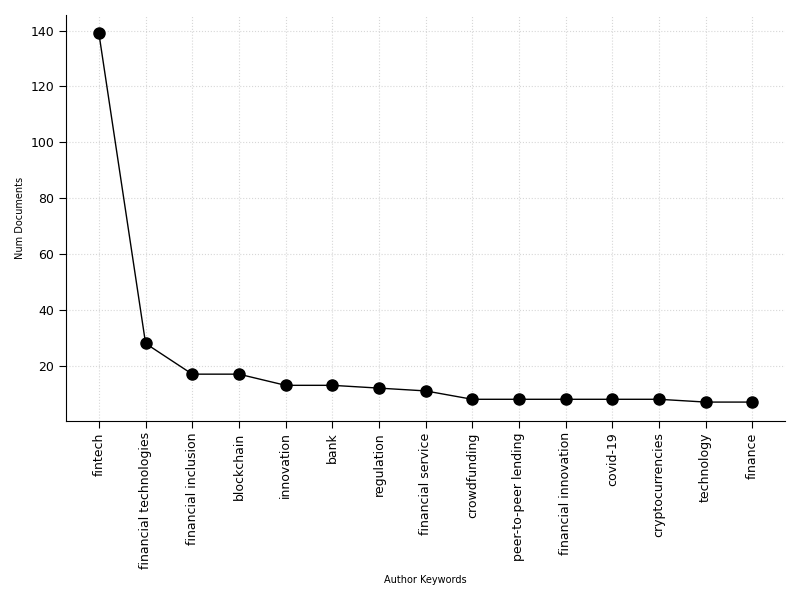
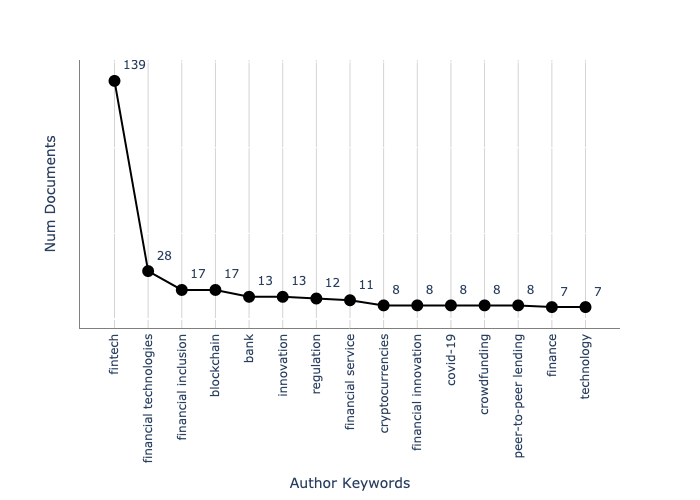
update

diff --git a/techminer2/line_chart.py b/techminer2/line_chart.py
@@ -1,5 +1,5 @@
 """
-Line Chart
+Line Chart (*)
 ===============================================================================
 
 >>> from techminer2 import *
@@ -9,7 +9,7 @@ Line Chart
 ...     'author_keywords', 
 ...     top_n=15, 
 ...     directory=directory,
-... ).savefig(file_name)
+... ).write_image(file_name)
 
 .. image:: images/line_chart.png
     :width: 700px
@@ -19,46 +19,49 @@ Line Chart
 
 """
 
-from ._line_chart import _line_chart
-from .topic_view import topic_view
+import plotly.express as px
+
+from .column_indicators import column_indicators
 
 
 def line_chart(
     column,
-    metric="num_documents",
     top_n=None,
-    min_occ=1,
+    min_occ=None,
     max_occ=None,
-    sort_values=None,
-    sort_index=None,
     directory="./",
-    #
-    figsize=(8, 6),
-    color="black",
 ):
 
-    indicators = topic_view(
+    indicators = column_indicators(
         column=column,
-        metric=metric,
-        top_n=top_n,
-        min_occ=min_occ,
-        max_occ=max_occ,
-        sort_values=sort_values,
-        sort_index=sort_index,
         directory=directory,
-    )
+    ).num_documents
 
-    indicators = indicators[metric]
+    indicators = indicators.sort_values(ascending=False)
 
-    return _line_chart(
-        indicators,
-        color=color,
-        figsize=figsize,
-        linewidth=1,
-        marker="o",
-        markersize=8,
-        title=None,
-        xlabel=None,
-        ylabel=None,
-        alpha=1.0,
+    if top_n is not None:
+        indicators = indicators.head(top_n)
+
+    if min_occ is not None:
+        indicators = indicators[indicators >= min_occ]
+
+    if max_occ is not None:
+        indicators = indicators[indicators <= max_occ]
+
+    fig = px.line(
+        x=indicators.index,
+        y=indicators.values,
+        markers=True,
+        text=indicators.astype(str),
+        labels={"y": "Num Documents", "x": column.replace("_", " ").title()},
     )
+    fig.update_traces(marker=dict(size=12))
+    fig.update_traces(textposition="top right")
+    fig.update_traces(line=dict(color="black"))
+    fig.update_xaxes(tickangle=270)
+    fig.update_layout(paper_bgcolor="white", plot_bgcolor="white")
+    fig.update_xaxes(linecolor="gray", gridcolor="lightgray")
+    fig.update_yaxes(linecolor="gray", gridcolor="white")
+    fig.update_yaxes(visible=True)
+    fig.update_yaxes(showticklabels=False)
+    return fig

diff --git a/techminer2/average_citations_per_year.py b/techminer2/average_citations_per_year.py
@@ -1,5 +1,5 @@
 """
-Average Citations per Year
+Average Citations per Year (*)
 ===============================================================================
 
 
@@ -36,64 +36,5 @@ def average_citations_per_year(directory="./"):
     fig.update_layout(paper_bgcolor="white", plot_bgcolor="white")
     fig.update_xaxes(linecolor="gray", gridcolor="lightgray")
     fig.update_yaxes(linecolor="gray", gridcolor="lightgray")
+    fig.update_yaxes(showticklabels=False)
     return fig
-
-
-# import matplotlib.pyplot as plt
-# import matplotlib.ticker as tick
-
-
-# def _yaxis_format(y_value, y_position):
-#     y_formated = "{:1.0f}".format(y_value)
-#     return y_formated
-
-
-# def average_citations_per_year(
-#     figsize=(6, 6),
-#     color="k",
-#     directory="./",
-# ):
-
-#     if directory is None:
-#         directory = "/workspaces/techminer-api/tests/data/"
-
-#     production = annual_indicators(directory)["mean_global_citations"]
-
-#     fig = plt.Figure(figsize=figsize)
-#     ax = fig.subplots()
-
-#     ax.plot(
-#         production.index.astype(str),
-#         production.values,
-#         "o-",
-#         markersize=8,
-#         color=color,
-#         alpha=1.0,
-#     )
-
-#     ax.set_title("Average citations per year", fontsize=10, color="dimgray", loc="left")
-#     ax.set_ylabel("Citations", color="dimgray")
-#     ax.set_xlabel("Year", color="dimgray")
-#     ax.set_xticklabels(
-#         production.index.astype(str),
-#         rotation=90,
-#         horizontalalignment="center",
-#         fontsize=7,
-#         color="dimgray",
-#     )
-#     ax.set_yticklabels(
-#         ax.get_yticks(),
-#         fontsize=7,
-#         color="dimgray",
-#     )
-
-#     ax.yaxis.set_major_formatter(
-#         tick.FuncFormatter(_yaxis_format),
-#     )
-
-#     ax.spines["left"].set_color("dimgray")
-#     ax.spines["bottom"].set_color("dimgray")
-#     ax.spines["top"].set_visible(False)
-#     ax.spines["right"].set_visible(False)
-#     ax.grid(alpha=0.5)
-#     return fig

diff --git a/techminer2/annual_scientific_production.py b/techminer2/annual_scientific_production.py
@@ -1,5 +1,5 @@
 """
-Annual Scientific Production
+Annual Scientific Production (*)
 ===============================================================================
 
 
@@ -37,4 +37,5 @@ def annual_scientific_production(directory="./"):
     fig.update_layout(paper_bgcolor="white", plot_bgcolor="white")
     fig.update_xaxes(linecolor="gray", gridcolor="lightgray")
     fig.update_yaxes(linecolor="gray", gridcolor="lightgray")
+    fig.update_yaxes(showticklabels=False)
     return fig

diff --git a/techminer2/bubble_chart.py b/techminer2/bubble_chart.py
@@ -5,7 +5,11 @@ Bubble Chart
 >>> from techminer2 import *
 >>> directory = "data/"
 >>> file_name = "sphinx/images/bubble_chart.png"
->>> matrix = co_occurrence_matrix(column='authors', min_occ=2, directory=directory)
+>>> matrix = co_occurrence_matrix(
+...     column='authors', 
+...     min_occ=2, 
+...     directory=directory,
+... )
 >>> bubble_chart(matrix).savefig(file_name)
 
 .. image:: images/bubble_chart.png

diff --git a/sphinx/_vantagepoint.rst b/sphinx/_vantagepoint.rst
@@ -78,7 +78,7 @@ Report (Plotly)
         bar_chart
         column_chart
         circle_chart
-
+        line_chart
 
 
 Report
@@ -95,7 +95,7 @@ Report
         cleveland_chart
         dotted_gantt_chart
         gantt_chart 
-        line_chart
+        
         
         timeline_chart
         tree_map
